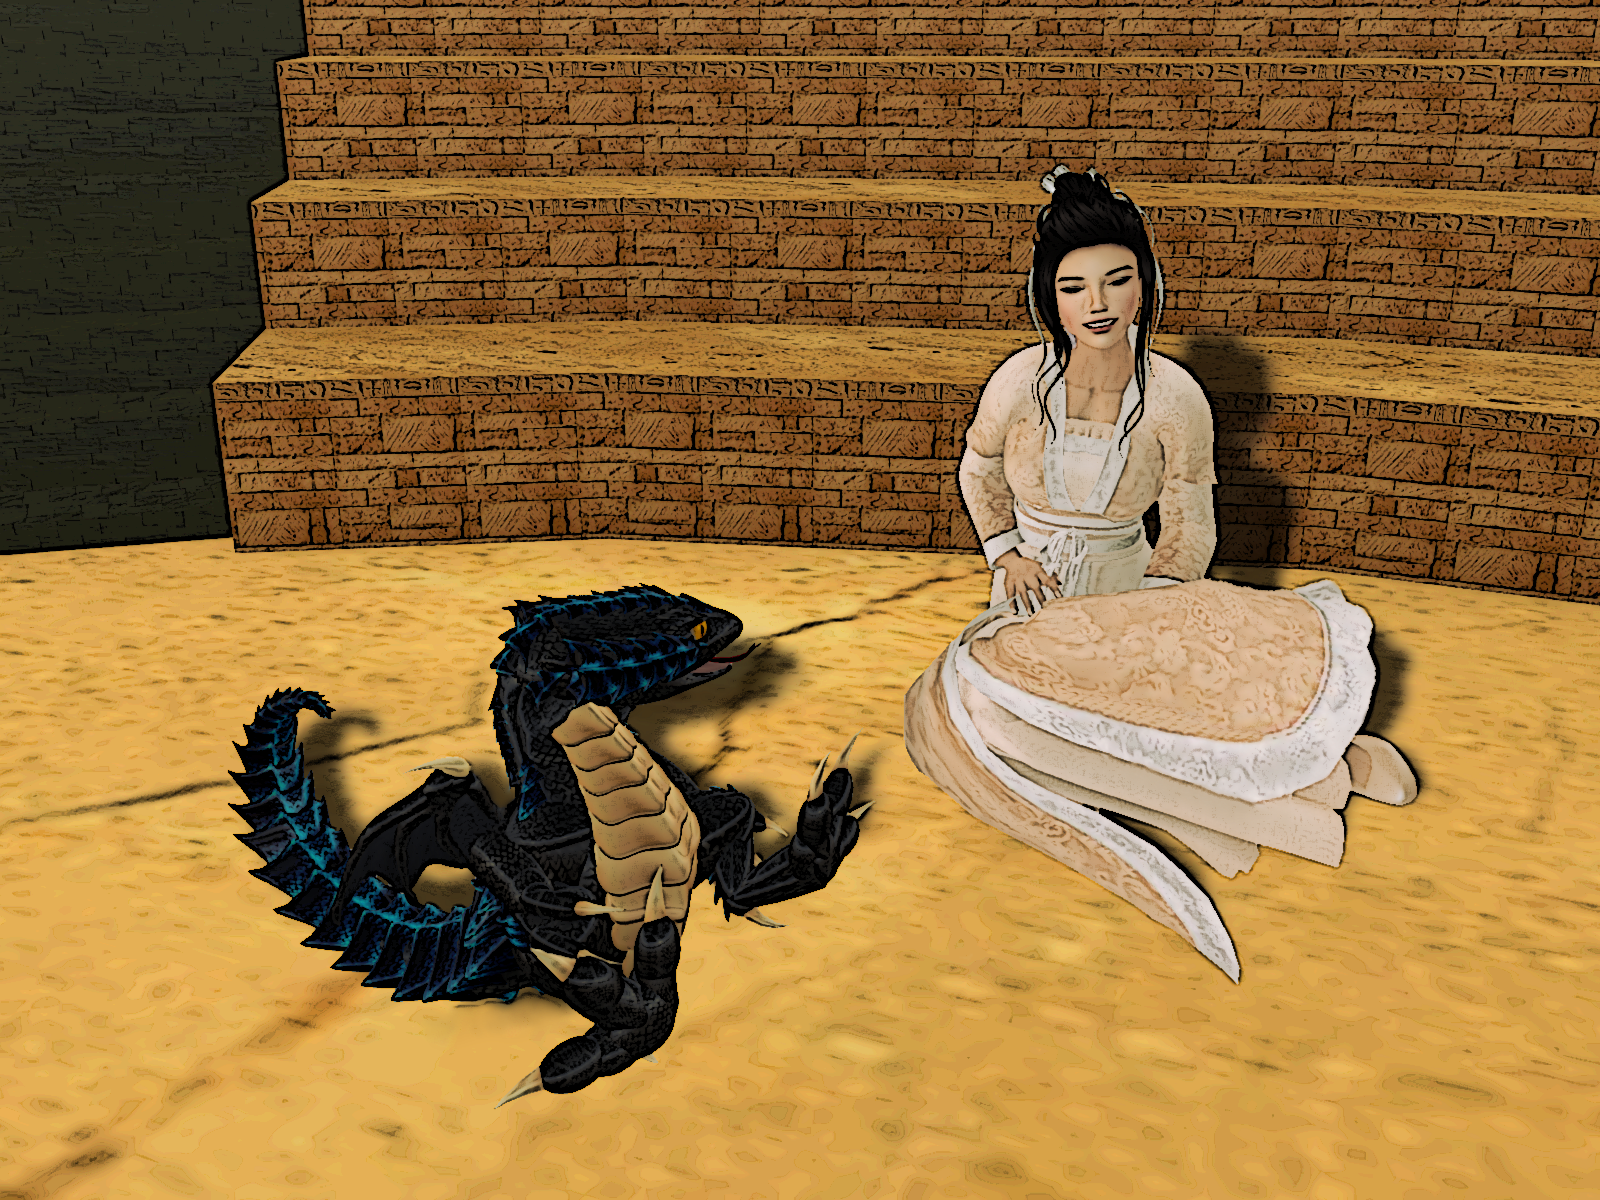
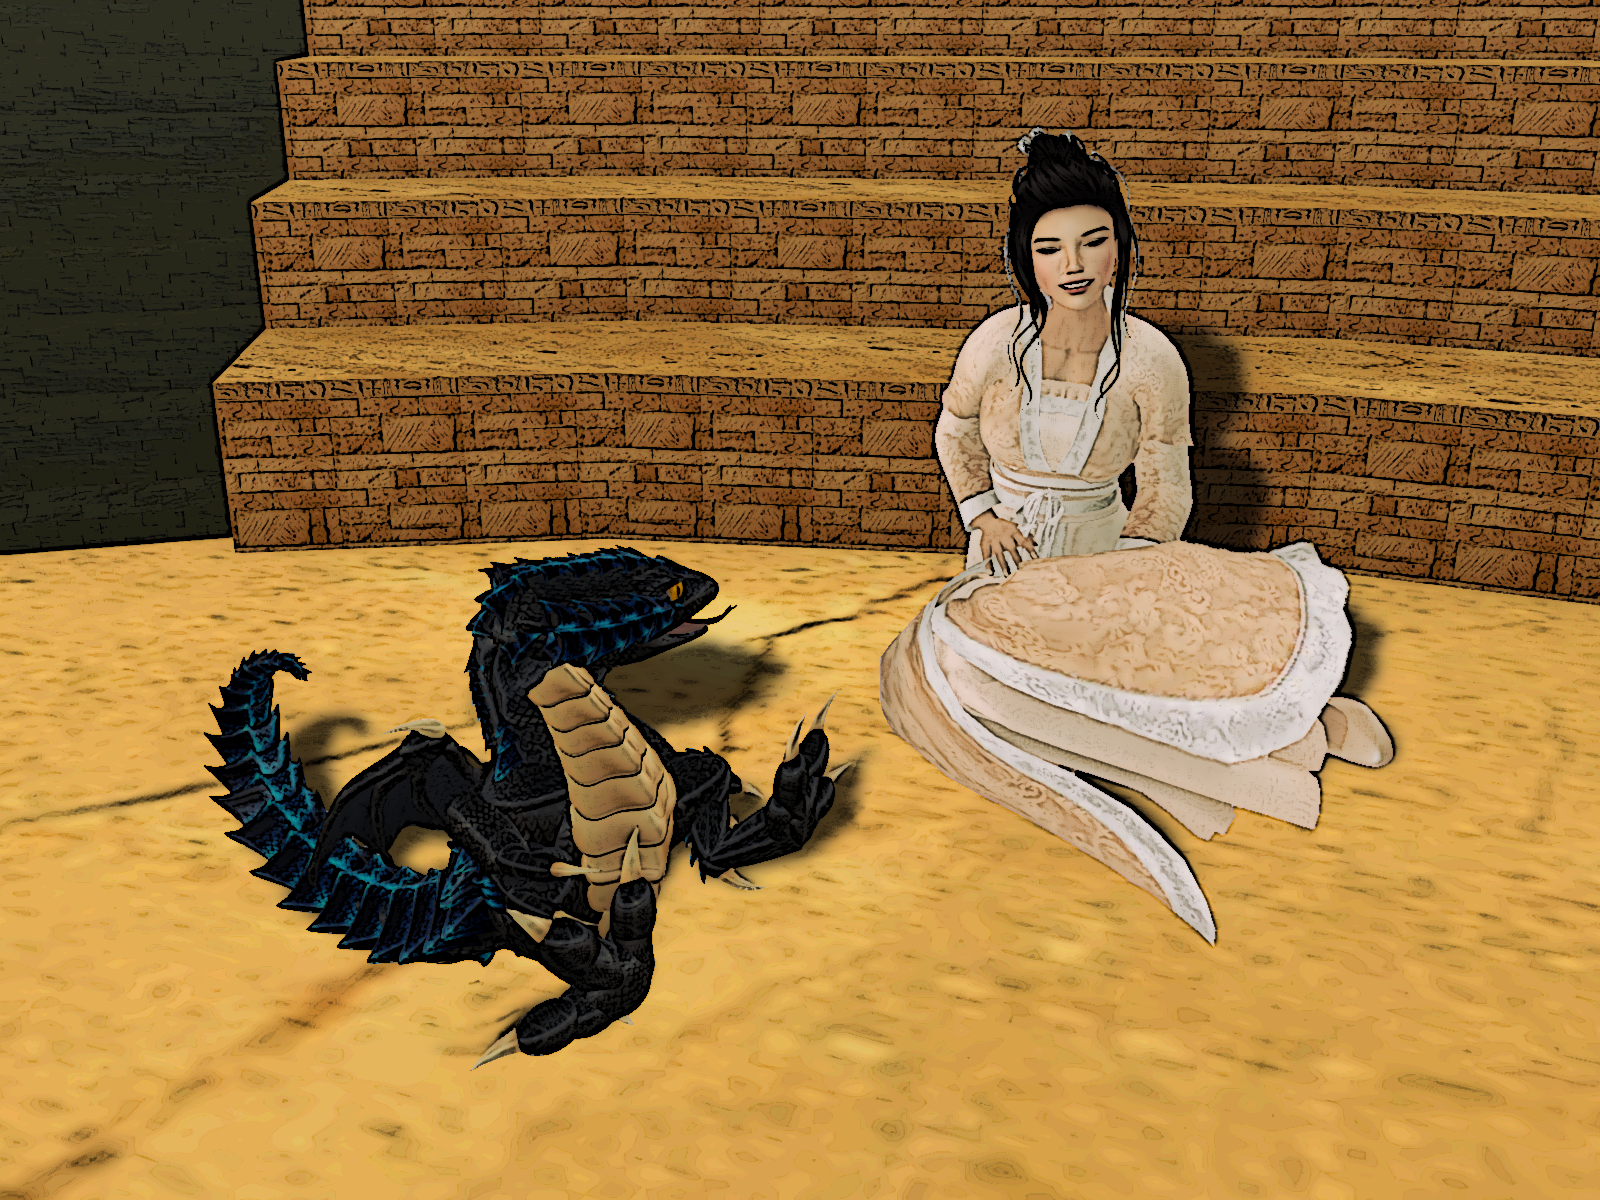
Retouch floorsit image

Changed region(s): [[0.125, 0.0925, 0.9062, 0.925]]

diff --git a/vr/bw/index-notext.html b/vr/bw/index-notext.html
@@ -54,7 +54,7 @@
 				<img src="img/stars.png" class="img-1-1">
 			</div>
 			<div class="pure-u-1-1">
-				<img src="img/floorsit.png" class="img-1-1">
+				<img src="img/floorsit.png" class="img-1-1" id="floorsit">
 			</div>
 			<div class="pure-u-1-1">
 				<img src="img/nosphere.png" class="img-1-1">
@@ -65,6 +65,7 @@
             <br>
             <div>Tommy Anderberg</div>
             <div>January 9, 2017</div>
+			<div>(<a href="#floorsit">Retouched</a> May 14, 2017)</div>
         </div>
     </div>
   </body>

diff --git a/vr/bw/index-se.html b/vr/bw/index-se.html
@@ -396,7 +396,7 @@
 					i amfiteatern.
 				</p>
 			<div class="pure-u-1-1">
-				<img src="img/floorsit.png" class="img-1-1">
+				<img src="img/floorsit.png" class="img-1-1" id="floorsit">
 			</div>
 			<div class="pure-u-1-1">
 				<p>
@@ -684,6 +684,7 @@
 			<br>
             <div>Tommy Anderberg</div>
             <div>10 januari, 2017</div>
+			<div>(<a href="#floorsit">Retusherad</a> 14 maj, 2017)</div>
 		</div>
     </div>
   </body>

diff --git a/vr/bw/index.html b/vr/bw/index.html
@@ -389,7 +389,7 @@
 					amphitheater.
 				</p>
 			<div class="pure-u-1-1">
-				<img src="img/floorsit.png" class="img-1-1">
+				<img src="img/floorsit.png" class="img-1-1" id="floorsit">
 			</div>
 			<div class="pure-u-1-1">
 				<p>
@@ -673,6 +673,7 @@
 			<br>
             <div>Tommy Anderberg</div>
             <div>January 10, 2017</div>
+			<div>(<a href="#floorsit">Retouched</a> May 14, 2017)</div>
 		</div>
     </div>
   </body>
